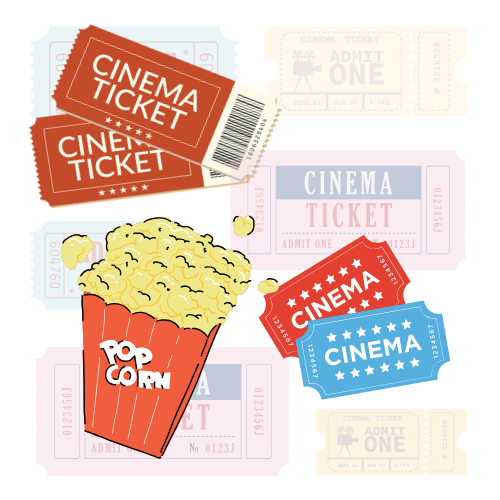
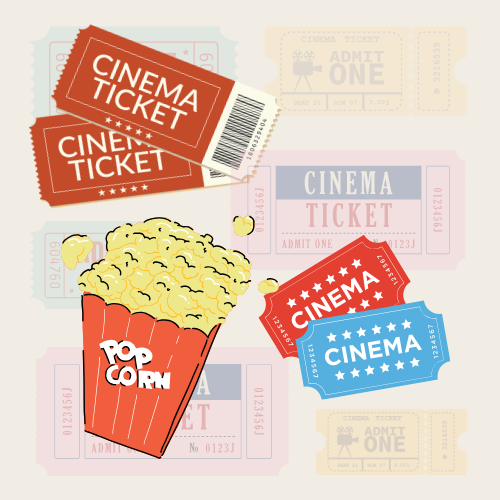
[style (front-end)]: blend background of the home's image to the page's background

diff --git a/go-movies-front-end/src/components/Home.js b/go-movies-front-end/src/components/Home.js
@@ -8,7 +8,11 @@ const Home = () => {
             <h2>Find a movie to watch tonight!</h2>
             <hr />
             <Link to="/movies">
-            <img src={Ticket} alt="movie ticket"></img>
+                <img 
+                    src={Ticket} 
+                    alt="movie ticket"
+                    style={{ borderRadius: "20px" }}
+                ></img>
             </Link>
         </div>
         </>
